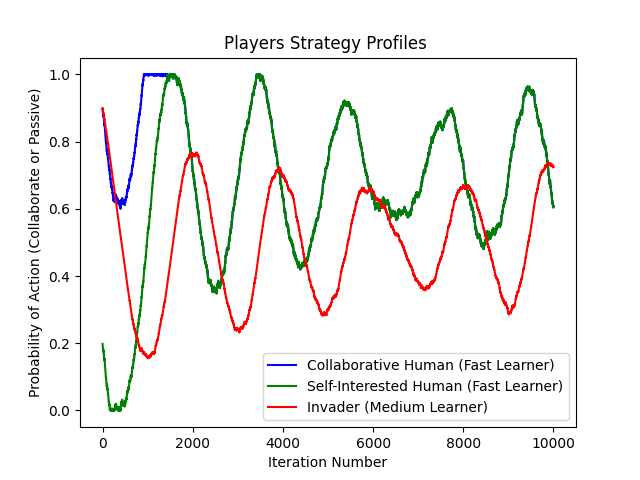
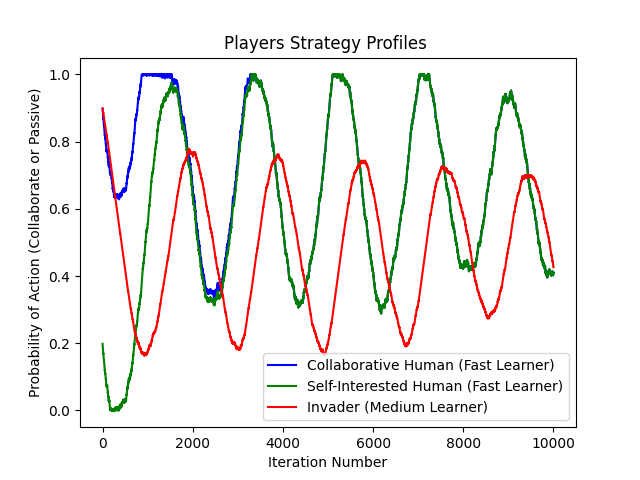
Update case structure in driver files

Changed region(s): [[0.5, 0.1562, 0.875, 0.7188], [0.1562, 0.1562, 0.5312, 0.8438]]

diff --git a/Population-Game.py b/Population-Game.py
@@ -28,6 +28,45 @@ NUM_ITERATIONS = 10_000
 DT = .001
 
 
+# Setting up different learning rate cases
+CASES = [
+{"human_collab": 1,
+"human_self_interested":1,
+"invader_passive":1,
+"invader_active":1
+}, 
+{"human_collab": 1,
+"human_self_interested":2,
+"invader_passive":1,
+"invader_active":1
+}, 
+{"human_collab": 1,
+"human_self_interested":3,
+"invader_passive":1,
+"invader_active":1
+}, 
+{"human_collab": 2,
+"human_self_interested":3,
+"invader_passive":1,
+"invader_active":1
+}, 
+{"human_collab": 5,
+"human_self_interested":2,
+"invader_passive":46,
+"invader_active":9
+}, 
+{"human_collab": 9,
+"human_self_interested":7,
+"invader_passive":6,
+"invader_active":5
+}, 
+{"human_collab": 10,
+"human_self_interested":12,
+"invader_passive":79,
+"invader_active":100
+}, 
+] 
+
 def get_rep_dynamics(pop, game):
 
     # Human Average Fitness
@@ -61,49 +100,56 @@ def get_rep_dynamics(pop, game):
 
 def main():
 
-    # Create and initalize game
-    game = InvaderGamePayoffMatrix(VALUE, COST, SYNERGY, DAMAGE, ATTACK)
-    population = [HUMAN_COLLABORATE, HUMAN_SELF_INTERESTED, INVADER_PASSIVE, INVADER_ACTIVE]
+    for iCase in CASES:
+       
+       human_collaborate = iCase["human_collab"]
+       human_self_interested = iCase["human_self_interested"]
+       invader_passive = iCase["invader_passive"]
+       invader_active = iCase["invader_active"]
+       
+       # Create and initalize game
+       game = InvaderGamePayoffMatrix(VALUE, COST, SYNERGY, DAMAGE, ATTACK)
+       population = [human_collaborate, human_self_interested, invader_passive, invader_active]
 
-    # Create Storage for Population Distributions
-    population_df = pd.DataFrame(columns=['iteration', 'human_collab', 'human_self', 'invader_passive', 'invader_active'])
+       # Create Storage for Population Distributions
+       population_df = pd.DataFrame(columns=['iteration', 'human_collab', 'human_self', 'invader_passive', 'invader_active'])
 
-    for i_Iter in range(NUM_ITERATIONS):
-        # Update Game
-        game.update_game()
-        # Normalize Population 
-        population = [x/sum(population) for x in population]
+       for i_Iter in range(NUM_ITERATIONS):
+           # Update Game
+           game.update_game()
+           # Normalize Population 
+           population = [x/sum(population) for x in population]
 
-        # Record information
-        new_row = pd.DataFrame([{'iteration':i_Iter, 
-                                 'human_collab': population[0], 
-                                 'human_self':population[1], 
-                                 'invader_passive': population[2], 
-                                 'invader_active': population[3]}])
-        population_df = pd.concat([new_row, population_df], ignore_index=True)
+           # Record information
+           new_row = pd.DataFrame([{'iteration':i_Iter, 
+                                    'human_collab': population[0], 
+                                    'human_self':population[1], 
+                                    'invader_passive': population[2], 
+                                    'invader_active': population[3]}])
+           population_df = pd.concat([new_row, population_df], ignore_index=True)
 
-        # Get replication dynamics and update populations
-        changes = get_rep_dynamics(population, game)
-        population[0] += DT * changes['h_c']
-        population[1] += DT * changes['h_s']
-        population[2] += DT * changes['i_p']
-        population[3] += DT * changes['i_a']
+           # Get replication dynamics and update populations
+           changes = get_rep_dynamics(population, game)
+           population[0] += DT * changes['h_c']
+           population[1] += DT * changes['h_s']
+           population[2] += DT * changes['i_p']
+           population[3] += DT * changes['i_a']
 
-    game.print_gamestate()
+       game.print_gamestate()
 
-    # Population Proportion Plot
-    plt.plot(population_df['iteration'], population_df['human_collab'], label = 'Humans-Collaborative', color = 'blue')
-    plt.plot(population_df['iteration'], population_df['human_self'], label = 'Humans-Self Interested', color = 'green')
-    plt.plot(population_df['iteration'], population_df['invader_passive'], label = 'Invader-Passive', color = 'orange')
-    plt.plot(population_df['iteration'], population_df['invader_active'], label = 'Invader-Active', color = 'red')
-    # Add title and labels
-    plt.title(f'Inital State: {HUMAN_COLLABORATE}-{HUMAN_SELF_INTERESTED}-{INVADER_PASSIVE}-{INVADER_ACTIVE}')
-    plt.xlabel('Iteration Number')
-    plt.ylabel(f'Proportion of Population')
-    plt.legend()
-    # Show the plot
-    plt.savefig(f'Population-Game-Images/population-{HUMAN_COLLABORATE}-{HUMAN_SELF_INTERESTED}-{INVADER_PASSIVE}-{INVADER_ACTIVE}.png')
-    plt.close()
+       # Population Proportion Plot
+       plt.plot(population_df['iteration'], population_df['human_collab'], label = 'Humans-Collaborative', color = 'blue')
+       plt.plot(population_df['iteration'], population_df['human_self'], label = 'Humans-Self Interested', color = 'green')
+       plt.plot(population_df['iteration'], population_df['invader_passive'], label = 'Invader-Passive', color = 'orange')
+       plt.plot(population_df['iteration'], population_df['invader_active'], label = 'Invader-Active', color = 'red')
+       # Add title and labels
+       plt.title(f'Inital State: {human_collaborate}-{human_self_interested}-{invader_passive}-{invader_active}')
+       plt.xlabel('Iteration Number')
+       plt.ylabel(f'Proportion of Population')
+       plt.legend()
+       # Show the plot
+       plt.savefig(f'Population-Game-Images/population-{human_collaborate}-{human_self_interested}-{invader_passive}-{invader_active}.png')
+       plt.close()
 
 if __name__ == '__main__':
     main()

diff --git a/Iterative-Game.py b/Iterative-Game.py
@@ -21,60 +21,60 @@ ATTACK = 5 # Cost of Attacking from Invader
 ROUNDS = range(10_000)
 
 # Setting up different learning rate cases
-CASES = [{"name": "Same_Learning_Rates",
-          "lr":[.001, .001, .001],
-          "lr_name":["Same", "Same", "Same"]
-          }, 
-         {"name": "H1-Slow_H2-Fast_Inv-Medium",
-          "lr":[.0002, .002, .001],
-          "lr_name":["Slow", "Fast", "Medium"]
-          },  
-         {"name": "H1-Fast_H2-Slow_Inv-Medium",
-          "lr":[.002, .0002, .001],
-          "lr_name":["Fast", "Slow", "Medium"]
-          },  
-         {"name": "H1-Fast_H2-Medium_Inv-Slow",
-          "lr":[.002, .001, .0002],
-          "lr_name":["Fast", "Medium", "Slow"]
-          },  
-         {"name": "H1-Medium_H2-Fast_Inv-Slow",
-          "lr":[.001, .002, .0002],
-          "lr_name":["Medium", "Fast", "Slow"]
-          },  
-         {"name": "H1-Medium_H2-Slow_Inv-Fast",
-          "lr":[.001, .0002, .002],
-          "lr_name":["Medium", "Slow", "Fast"]
-          }, 
-         {"name": "H1-Slow_H2-Medium_Inv-Fast",
-          "lr":[.0002, .001, .002],
-          "lr_name":["Slow", "Medium", "Fast"]
-          }, 
-         {"name": "H1-Medium_H2-Medium_Inv-Slow",
-          "lr":[.001, .001, .0002],
-          "lr_name":["Medium", "Medium", "Slow"]
-          }, 
-         {"name": "H1-Medium_H2-Medium_Inv-Fast",
-          "lr":[.001, .001, .002],
-          "lr_name":["Medium", "Medium", "Fast"]
-          }, 
-         {"name": "H1-Slow_H2-Slow_Inv-Medium",
-          "lr":[.0002, .0002, .001],
-          "lr_name":["Slow", "Slow", "Medium"]
-          }, 
-         {"name": "H1-Slow_H2-Slow_Inv-Fast",
-          "lr":[.0002, .0002, .002],
-          "lr_name":["Slow", "Slow", "Fast"]
-          }, 
-         {"name": "H1-Fast_H2-Fast_Inv-Medium",
-          "lr":[.002, .002, .001],
-          "lr_name":["Fast", "Fast", "Medium"]
-          }, 
-         {"name": "H1-Fast_H2-Fast_Inv-Slow",
-          "lr":[.002, .002, .0002],
-          "lr_name":["Fast", "Fast", "Slow"]
-          }, 
-
-] 
+CASES = [
+{"name": "Same_Learning_Rates",
+ "lr":[.001, .001, .001],
+ "lr_name":["Same", "Same", "Same"]
+ }, 
+{"name": "H1-Slow_H2-Fast_Inv-Medium",
+ "lr":[.0002, .002, .001],
+ "lr_name":["Slow", "Fast", "Medium"]
+ },  
+{"name": "H1-Fast_H2-Slow_Inv-Medium",
+ "lr":[.002, .0002, .001],
+ "lr_name":["Fast", "Slow", "Medium"]
+ },  
+{"name": "H1-Fast_H2-Medium_Inv-Slow",
+ "lr":[.002, .001, .0002],
+ "lr_name":["Fast", "Medium", "Slow"]
+ },  
+{"name": "H1-Medium_H2-Fast_Inv-Slow",
+ "lr":[.001, .002, .0002],
+ "lr_name":["Medium", "Fast", "Slow"]
+ },  
+{"name": "H1-Medium_H2-Slow_Inv-Fast",
+ "lr":[.001, .0002, .002],
+ "lr_name":["Medium", "Slow", "Fast"]
+ }, 
+{"name": "H1-Slow_H2-Medium_Inv-Fast",
+ "lr":[.0002, .001, .002],
+ "lr_name":["Slow", "Medium", "Fast"]
+ }, 
+{"name": "H1-Medium_H2-Medium_Inv-Slow",
+ "lr":[.001, .001, .0002],
+ "lr_name":["Medium", "Medium", "Slow"]
+ }, 
+{"name": "H1-Medium_H2-Medium_Inv-Fast",
+ "lr":[.001, .001, .002],
+ "lr_name":["Medium", "Medium", "Fast"]
+ }, 
+{"name": "H1-Slow_H2-Slow_Inv-Medium",
+ "lr":[.0002, .0002, .001],
+ "lr_name":["Slow", "Slow", "Medium"]
+ }, 
+{"name": "H1-Slow_H2-Slow_Inv-Fast",
+ "lr":[.0002, .0002, .002],
+ "lr_name":["Slow", "Slow", "Fast"]
+ }, 
+{"name": "H1-Fast_H2-Fast_Inv-Medium",
+ "lr":[.002, .002, .001],
+ "lr_name":["Fast", "Fast", "Medium"]
+ }, 
+{"name": "H1-Fast_H2-Fast_Inv-Slow",
+ "lr":[.002, .002, .0002],
+ "lr_name":["Fast", "Fast", "Slow"]
+ },
+]
 
 for iCase in CASES:
     human_1 = PlayerInformation(name=f'Collaborative Human ({iCase["lr_name"][0]} Learner)', action_set=['c', 's'], strategy=.9,learning_rate=iCase["lr"][0])
